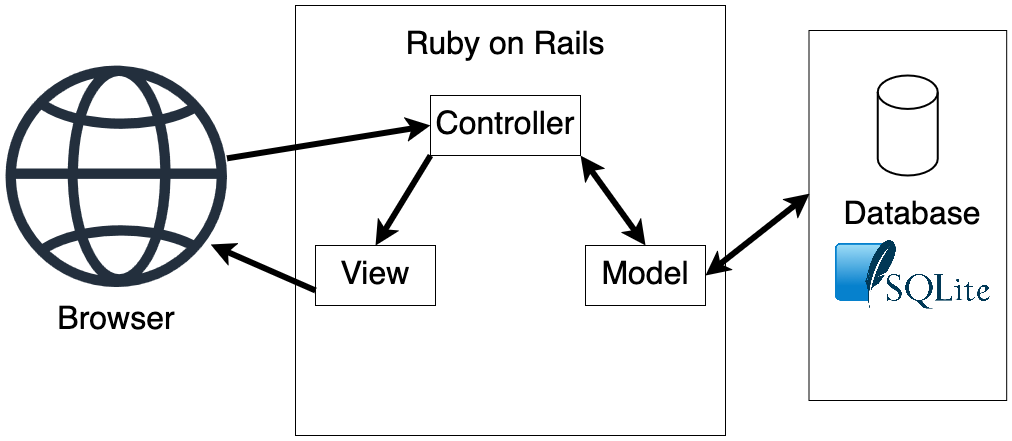
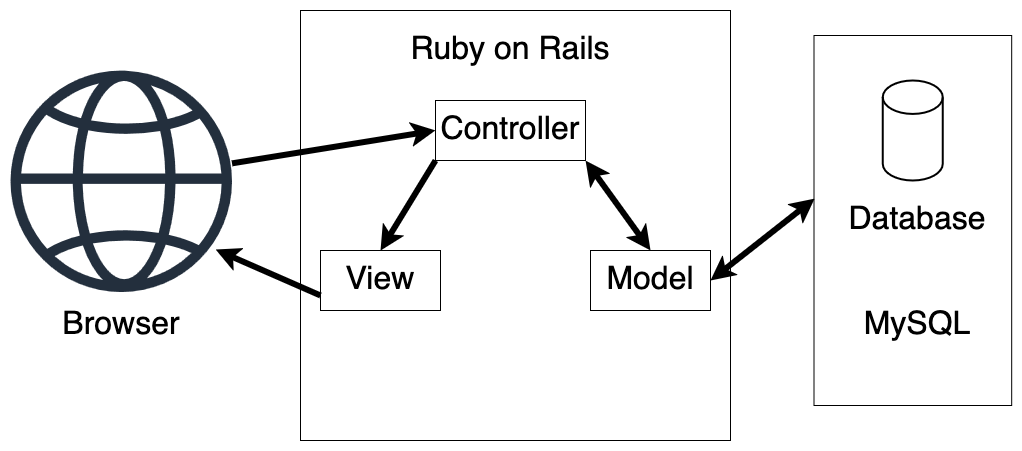
Update Readme and BlockDiagram
Add more info to the project proposal to reflect the changes made in the sprint meeting with TA.

Modified BlockDiagram to reflect changes made in sprint meeting with TA

diff --git a/README.md b/README.md
@@ -12,7 +12,9 @@
 
 Our project vision is to create an online “casino” website. This website will allow users to play casino games using an online currency (no real cash equivalent). The currency will be able to be used across all different games with users being able to use their username to save a profile that maintains a persistent currency amount.  Additionally, to create an increased sense of community and realism we will have a global chat feature which allows users to talk amongst themselves.
 
-The stakeholders of our project are us (the dev team)
+We want to create a platform where users can enjoy gambling our fake currency, feel a sense of community, and experience friendly competition.
+
+The stakeholders of this project are players, the development team, and the evaluators (TA and Prof).
 
 ## Core features
 
@@ -20,34 +22,67 @@ The stakeholders of our project are us (the dev team)
 
 2. Ability to switch between casino games via a lobby system.
 
-3. Chat system with global chat when in the main lobby, and individual chats when in the specific games (horse racing, roulette, blackjack)
+3. A wallet system that allows users to bet any amount on games + persistence between games. Additionally, the user will be given an “allowance” wherein each day the user will be given 1000 of our fake currency to play with.
 
-4. Horse racing will select a fixed number of horses with chances of winning adding up to 1, the horses with lower % will offer higher payout.
+4. Chat system with global chat when in the main lobby, and individual chats when in the specific games (horse racing, roulette, blackjack)
 
-5. Roulette will have a grace period for users to bet on specific numbers or colours and then will spin after the period ends
+5. Horse racing will select a fixed number of horses with chances of winning adding up to 1, the horses with lower % will offer higher payout.
 
-6. Blackjack will be playing with a deck against 3-4 players concurrently. Each player will have a certain amount of time (15s) to decide before going on to each player. After all players have gone the AI will flip their card and draw until 17 or bust.
+6. Roulette will have a grace period for users to bet on specific numbers or colours and then will spin after the period ends
+
+7. Blackjack will be playing with a deck against 3-4 players concurrently. Each player will have a certain amount of time (15s) to decide before going on to each player. After all players have gone the AI will flip their card and draw until 17 or bust.
+
+8. Leaderboard which will display the top users account balance and other related stats.
+
+9. Can handle 100 users with 1000 requests per minute concurrently.
 
 ## Technologies
 
 - Ruby on rails
-- SQLite
+- MySQL
+- Docker
+- Github Actions
 
 ## User stories
 
-As a user I want to be able to login with a username (persistent data)
+As a new user, I want to be able to create an account in the casino, so that I can save my winnings and gaming stats when I no longer have time to play. (persistent data - create account)
 
-As a user I want to save my current currency amount between sessions. (persistent data)
+As a returning user, I want to be able to login with a username, so that I can continue gambling using my saved gaming stats and earned winnings. (persistent data - login)
 
-As a user I want to be able to enjoy playing the slot machine. (slot machine)
+As a user, I want to be able to switch between multiple games on the website, so that I can explore different gaming options without being stuck only playing the game I initially picked. (casino hub)
 
-As a user I want to be able to switch between multiple games in one session. (switch between games)
+As a user, I want to be able to chat with other users before picking a game, so that I can socialize with other players and ask them what games they would recommend. (chat feature - casino hub/lobby/concurrent chatting)
 
-As a user I want to be able to chat with other users currently playing in the casino (chat feature)
+As a user, I want to be able to chat with other users at the same table as me, so that I can have an authentic gambling experience as if we were all really playing the same game. (chat feature - individual games/concurrent chatting)
 
-As a user I want to be able to play a game with other users at the same time (concurrent gaming)
+As a user, I want to be able to place outside bets in roulette, so that I can still win some money with an overall lower risk of losing. (games - roulette/outside bets)
 
-As a user I want to be able to play blackjack (concurrent gaming)
+As a user, I want to be able to place inside bets in roulette, so that I can risk losing more with the potential of a higher payout. (games - roulette/inside bets)
+
+As a user, I want to view the horses about to race in horse racing, so that I can compare and contrast the win rate and potential payoff of each in real time. (games - horse racing/viewing horses)
+
+As a user, I want to be able to bet on a single horse in horse racing, so that I can focus on just one horse and maximize my potential winnings if that horse wins. (games - horse racing/single horse bet)
+
+As a user, I want to be able to bet on multiple horses in horse racing, so that I can increase my chances of winning by diversifying my bets. (games - horse racing/multiple horse bet)
+
+As a user, I want to be able to make a multi-bet in horse racing, so that I can combine multiple horse predictions into a single wager and potentially win larger payouts. (games - horse racing/multi-bet)
+
+As a user, I want to be able to hit or stand with my current hand in blackjack, so that I have the opportunity to strategize about my hand before the dealer gets to draw. (games - blackjack/basics)
+
+As a user, I want to be able to double down with my current hand in blackjack, so that I am able to risk busting or having a lower count for a larger payout. (games - blackjack/double down)
+
+As a user, I want to be able to split my current hand in blackjack, so that I am able to risk running two hands with the potential of winning a larger payout. (games - blackjack/splitting)
+
+As a user, I want to be able to play with other users at the same time, so that I can determine the best move based on the actions of the other players. (games - blackjack/concurrency)
+
+
+As a user, I want to be able to play a blackjack game at the same time as others, so that I feel as though I am actually at a real table with players and a dealer. (games - blackjack/concurrency)
+
+
+As a user, I want to be able to see the other top players in the casino, so that I can try to beat other players currency count and win rates (leaderboard)
+
+As a user, I want to be able to use the currency to be global, so that I can win one game, and use that won concurrency to bet in another game. (wallet - persistent currency)
+ 
 
 ## Block Diagram:
 ![A block diagram representing our architecture](BlockDiagram.png "Block Diagram")
